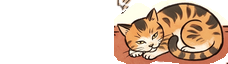
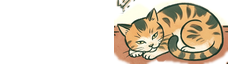
Polish Ming pose color and map title behavior

diff --git a/tests/engine.test.ts b/tests/engine.test.ts
@@ -1,5 +1,5 @@
 import { describe, expect, it } from 'vitest';
-import { exitEdge, parseMap } from '../src/engine/map.ts';
+import { exitCanBeUsed, exitEdge, parseMap } from '../src/engine/map.ts';
 import { facingOf, sideFacing, step, walkable, walkableFoot } from '../src/engine/walk.ts';
 import { addItem, readSave, writeSave } from '../src/engine/save.ts';
 import { createBattle, outcome, playRound } from '../src/engine/battle.ts';
@@ -38,7 +38,7 @@ describe('map properties', () => {
   it('defaults legacy maps to top-view campus settings', () => {
     const legacy = readFileSync(new URL('../content/maps/gate.tmj', import.meta.url), 'utf8');
     expect(parseMap(legacy)).toMatchObject({
-      art: null, view: 'top', script: 'hans', player: 'linxia', dialogue: 'box', intro: null, scaleFar: 1, scaleNear: 1, ground: 'stone',
+      art: null, view: 'top', script: 'hans', player: 'linxia', dialogue: 'box', intro: null, scaleFar: 1, scaleNear: 1, paintedTitle: false, ground: 'stone',
     });
   });
 
@@ -54,11 +54,12 @@ describe('map properties', () => {
         { name: 'intro', value: 'ming_intro' },
         { name: 'scaleFar', value: '0.8' },
         { name: 'scaleNear', value: '1.25' },
+        { name: 'paintedTitle', value: true },
         { name: 'ground', value: 'wood' },
       ],
     };
     expect(parseMap(fixture)).toMatchObject({
-      art: 'ming', view: 'side', script: 'hant', player: 'shen', dialogue: 'bubble', intro: 'ming_intro', scaleFar: 0.8, scaleNear: 1.25, ground: 'wood',
+      art: 'ming', view: 'side', script: 'hant', player: 'shen', dialogue: 'bubble', intro: 'ming_intro', scaleFar: 0.8, scaleNear: 1.25, paintedTitle: true, ground: 'wood',
     });
   });
 
@@ -93,6 +94,15 @@ describe('map properties', () => {
       }],
     };
     expect(parseMap(fixture).triggers[0]).toMatchObject({ knot: 'ming_monk_left', actor: 'monk_left' });
+  });
+});
+
+describe('exit facing', () => {
+  it('requires the declared facing and defaults missing faces to up', () => {
+    expect(exitCanBeUsed({ face: 'up' }, 'up')).toBe(true);
+    expect(exitCanBeUsed({ face: 'up' }, 'down')).toBe(false);
+    expect(exitCanBeUsed({ face: null }, 'up')).toBe(true);
+    expect(exitCanBeUsed({ face: null }, 'down')).toBe(false);
   });
 });
 

diff --git a/tests/story.test.ts b/tests/story.test.ts
@@ -57,17 +57,48 @@ describe('story', () => {
 
   it('rejects anchors inside exit rectangles on any map', () => {
     const map = content.maps.ming_scriptorium;
+    const canal = content.maps.ming_canal_street;
     const invalid = {
       ...content,
       maps: {
         ...content.maps,
         ming_scriptorium: {
           ...map,
-          anchors: { ...map.anchors, player_start: { x: 125, y: 350 } },
+          anchors: { ...map.anchors, from_street: { x: 125, y: 350 } },
+        },
+        ming_canal_street: {
+          ...canal,
+          exits: canal.exits.map((exit) => exit.id === 'to_scriptorium' ? { ...exit, face: 'left' as const } : exit),
         },
       },
     };
-    expect(checkExits(invalid)).toContain('map ming_scriptorium: anchor "player_start" is inside exit "to_street"');
+    expect(checkExits(invalid)).toContain('map ming_scriptorium: anchor "from_street" is inside exit "to_street"');
+
+    const wrongArrivalFace = {
+      ...invalid,
+      maps: {
+        ...invalid.maps,
+        ming_canal_street: {
+          ...invalid.maps.ming_canal_street,
+          exits: invalid.maps.ming_canal_street.exits.map((exit) =>
+            exit.id === 'to_scriptorium' ? { ...exit, face: 'down' as const } : exit),
+        },
+      },
+    };
+    expect(checkExits(wrongArrivalFace)).not.toContain('map ming_scriptorium: anchor "from_street" is inside exit "to_street"');
+
+    const noFace = {
+      ...wrongArrivalFace,
+      maps: {
+        ...wrongArrivalFace.maps,
+        ming_scriptorium: {
+          ...wrongArrivalFace.maps.ming_scriptorium,
+          exits: wrongArrivalFace.maps.ming_scriptorium.exits.map((exit) => exit.id === 'to_street' ? { ...exit, face: null } : exit),
+        },
+      },
+    };
+    expect(checkExits(noFace)).toContain('map ming_scriptorium: anchor "from_street" is inside exit "to_street"');
     expect(checkExits(content).filter((error) => error.includes('is inside exit'))).toEqual([]);
+    expect(content.maps.avenue.anchors.kiosk_front).toEqual({ x: 1570, y: 470 });
   });
 });

diff --git a/src/engine/map.ts b/src/engine/map.ts
@@ -21,7 +21,7 @@ export interface MapForeground { polygon: Polygon; baseline: number }
 
 /** Walking into the rect moves the player to `anchor` on `map`. */
 export interface MapExit {
-  id: string; x: number; y: number; width: number; height: number; map: string; anchor: string; face: Facing; sfx?: string;
+  id: string; x: number; y: number; width: number; height: number; map: string; anchor: string; face: Facing | null; sfx?: string;
 }
 
 export type ExitEdge = Facing;
@@ -32,6 +32,10 @@ export function exitEdge(exit: Pick<MapExit, 'x' | 'y' | 'width' | 'height' | 'f
   if (exit.y <= 0) return 'up';
   if (exit.y + exit.height >= mapH) return 'down';
   return exit.face ?? 'up';
+}
+
+export function exitCanBeUsed(exit: Pick<MapExit, 'face'>, facing: Facing): boolean {
+  return (exit.face ?? 'up') === facing;
 }
 
 export interface FieldMap {
@@ -48,6 +52,7 @@ export interface FieldMap {
   scaleFar: number;
   scaleNear: number;
   frameInset: number;
+  paintedTitle: boolean;
   ground: string;
   bgm: string | null;
   ambience: string | null;
@@ -88,6 +93,7 @@ export function parseMap(raw: string | TiledMap): FieldMap {
     scaleFar: Number(prop(map, 'scaleFar') ?? 1),
     scaleNear: Number(prop(map, 'scaleNear') ?? 1),
     frameInset: Number(prop(map, 'frameInset') ?? 0),
+    paintedTitle: String(prop(map, 'paintedTitle') ?? 'false') === 'true',
     ground: String(prop(map, 'ground') ?? 'stone'),
     bgm: (prop(map, 'bgm') as string) ?? null,
     ambience: (prop(map, 'ambience') as string) ?? null,
@@ -97,7 +103,7 @@ export function parseMap(raw: string | TiledMap): FieldMap {
       const [m, anchor] = String(prop(o, 'exit')).split(':');
       return {
         ...rect(o), map: m, anchor,
-        face: String(prop(o, 'face') ?? 'up') as Facing,
+        face: prop(o, 'face') == null ? null : String(prop(o, 'face')) as Facing,
         sfx: (prop(o, 'sfx') as string) ?? undefined,
       };
     }),

diff --git a/src/game/scenes/Field.ts b/src/game/scenes/Field.ts
@@ -8,7 +8,7 @@ import { ChoiceMenu } from '../ui/ChoiceMenu.ts';
 import { SpeechBubble } from '../ui/SpeechBubble.ts';
 import type { BattleData } from './Battle.ts';
 import { speakerResolver } from '../../engine/content.ts';
-import { exitEdge, inRect, type MapExit, type MapTrigger } from '../../engine/map.ts';
+import { exitCanBeUsed, exitEdge, inRect, type MapExit, type MapTrigger } from '../../engine/map.ts';
 import { addItem, readSave, writeSave, type ActorState } from '../../engine/save.ts';
 import { DIRS, type Dir } from '../../story/commands.ts';
 import type { CommandEvent, LineEvent } from '../../story/parse.ts';
@@ -159,7 +159,7 @@ export class FieldScene extends Phaser.Scene implements StoryHost {
       this.player.face = this.map.view === 'side' ? sideFacing(dx, this.player.face) : facingOf(dx, dy, this.player.face);
       this.player.setPos(step(this.player.pos, { x: (dx / len) * d, y: (dy / len) * d }, this.map.walkable, this.map.blocked));
       this.player.setMoving(true, this.currentSpeed / 190);
-      const exit = this.map.exits.find((e) => inRect(this.player.pos, e));
+      const exit = this.map.exits.find((e) => exitCanBeUsed(e, this.player.face) && inRect(this.player.pos, e));
       if (exit) {
         this.updateHint(null);
         return void this.travel(exit);
@@ -644,6 +644,7 @@ export class FieldScene extends Phaser.Scene implements StoryHost {
     if (m.bgm) this.loop('bgm', m.bgm, 1.5);
     if (m.ambience) this.loop('ambience', m.ambience, 1.5);
     this.areaLabel.setText(m.title);
+    this.areaLabel.setVisible(!m.paintedTitle);
   }
 
   private setPaperTheme(paper: boolean) {

diff --git a/tools/lib/content.ts b/tools/lib/content.ts
@@ -109,7 +109,11 @@ export function checkExits(c: Content): string[] {
       else if (!to.anchors[e.anchor]) errs.push(`map ${id}: exit "${e.id}" goes to unknown anchor "${e.map}:${e.anchor}"`);
       if (e.sfx && !(c.audioIds?.has(e.sfx) ?? !!c.audio.sfx?.[e.sfx])) errs.push(`map ${id}: exit "${e.id}" has unknown sfx "${e.sfx}"`);
       for (const [name, anchor] of Object.entries(m.anchors)) {
-        if (inRect(anchor, e)) errs.push(`map ${id}: anchor "${name}" is inside exit "${e.id}"`);
+        const arrivalFaces = Object.values(c.maps).flatMap((source) =>
+          source.exits.filter((incoming) => incoming.map === id && incoming.anchor === name).map((incoming) => incoming.face));
+        if (inRect(anchor, e) && (e.face === null || arrivalFaces.includes(e.face))) {
+          errs.push(`map ${id}: anchor "${name}" is inside exit "${e.id}"`);
+        }
       }
     }
     if (m.background && !c.artByDir[m.art ?? 'retro']?.has(m.background)) errs.push(`map ${id}: background "${m.background}" has no art file in art/${m.art ?? 'retro'}`);

diff --git a/tools/lib/approvals.ts b/tools/lib/approvals.ts
@@ -57,12 +57,13 @@ function mapSceneData(map: FieldMap) {
     foreground: map.foreground,
     anchors: map.anchors,
     actors: map.actors,
-    exits: map.exits,
+    exits: map.exits.map((exit) => ({ ...exit, face: exit.face ?? 'up' })),
     art: map.art,
     view: map.view,
     scaleFar: map.scaleFar,
     scaleNear: map.scaleNear,
     frameInset: map.frameInset,
+    ...(map.paintedTitle ? { paintedTitle: true } : {}),
     script: map.script,
     player: map.player,
     dialogue: map.dialogue,

diff --git a/tools/art/scene-cut.py b/tools/art/scene-cut.py
@@ -6,7 +6,7 @@ from __future__ import annotations
 import json
 from pathlib import Path
 
-from PIL import Image, ImageChops, ImageDraw, ImageFilter
+from PIL import Image, ImageChops, ImageDraw, ImageFilter, ImageStat
 
 ROOT = Path(__file__).resolve().parents[2]
 SPEC_PATH = ROOT / "assets/scenes/ming_scriptorium.yaml"
@@ -16,6 +16,36 @@ SIDECAR = ROOT / "assets/scenes/ming_scriptorium.art.json"
 
 def box_crop(image: Image.Image, box: list[int]) -> Image.Image:
     return image.crop(tuple(box))
+
+
+def changed_mask(edit: Image.Image, reference: Image.Image) -> Image.Image:
+    mask = ImageChops.difference(edit, reference).convert("L")
+    return mask.point(lambda value: 255 if value > 30 else 0).filter(ImageFilter.MedianFilter(5)).filter(ImageFilter.MaxFilter(5))
+
+
+def match_color(
+    edit: Image.Image,
+    edit_roi: Image.Image,
+    plate_roi: Image.Image,
+    changed: Image.Image,
+    silhouette: Image.Image | None,
+) -> Image.Image:
+    union = ImageChops.lighter(changed, silhouette) if silhouette else changed
+    outside = ImageChops.invert(union)
+    source_stats = ImageStat.Stat(edit_roi, mask=outside)
+    target_stats = ImageStat.Stat(plate_roi, mask=outside)
+    channels = edit.split()
+    matched = []
+    for channel, source_mean, source_std, target_mean, target_std in zip(
+        channels, source_stats.mean, source_stats.stddev, target_stats.mean, target_stats.stddev
+    ):
+        scale = target_std / source_std if source_std > 1e-6 else 1
+        lut = [
+            max(0, min(255, round((value - source_mean) * scale + target_mean)))
+            for value in range(256)
+        ]
+        matched.append(channel.point(lut))
+    return Image.merge("RGB", matched)
 
 
 def build_plate(spec: dict) -> Image.Image:
@@ -44,8 +74,19 @@ def build_pose(spec: dict, plate: Image.Image, key: str, data: dict, scale: floa
     local_box = [roi[0] - crop_x, roi[1] - crop_y, roi[2] - crop_x, roi[3] - crop_y]
     edited_roi = box_crop(edit, local_box)
     plate_source = box_crop(plate, roi)
-    mask = ImageChops.difference(edited_roi, plate_source).convert("L").point(lambda p: 255 if p > 30 else 0)
-    mask = mask.filter(ImageFilter.MedianFilter(5)).filter(ImageFilter.MaxFilter(5)).filter(ImageFilter.GaussianBlur(1.5))
+    initial_mask = changed_mask(edited_roi, plate_source)
+    silhouette_points = data.get("foreground_silhouette_art")
+    silhouette_source = None
+    if silhouette_points:
+        silhouette_source = Image.new("L", plate_source.size, 0)
+        source_points = [(round(px / scale - roi[0]), round(py / scale - roi[1])) for px, py in silhouette_points]
+        ImageDraw.Draw(silhouette_source).polygon(source_points, fill=255)
+        dilation_art = int(data.get("silhouette_dilate_art", 3))
+        dilation_source = max(1, round(dilation_art / scale))
+        silhouette_source = silhouette_source.filter(ImageFilter.MaxFilter(dilation_source * 2 + 1))
+    edit = match_color(edit, edited_roi, plate_source, initial_mask, silhouette_source)
+    edited_roi = box_crop(edit, local_box)
+    mask = changed_mask(edited_roi, plate_source).filter(ImageFilter.GaussianBlur(1.5))
 
     x = round(roi[0] * scale)
     y = round(roi[1] * scale)
@@ -57,7 +98,6 @@ def build_pose(spec: dict, plate: Image.Image, key: str, data: dict, scale: floa
     changed_pixels = alpha.point(lambda value: 255 if value >= 128 else 0).histogram()[255]
     if changed_pixels < spec["pose_min_changed_pixels"]:
         raise ValueError(f"{key} pose has only {changed_pixels} changed opaque pixels")
-    silhouette_points = data.get("foreground_silhouette_art")
     if silhouette_points:
         silhouette = Image.new("L", frame_size, 0)
         origin_x, origin_y = x, y
@@ -65,6 +105,9 @@ def build_pose(spec: dict, plate: Image.Image, key: str, data: dict, scale: floa
         ImageDraw.Draw(silhouette).polygon(local_points, fill=255)
         dilation = int(data.get("silhouette_dilate_art", 3))
         silhouette = silhouette.filter(ImageFilter.MaxFilter(dilation * 2 + 1))
+        feather = float(data.get("silhouette_feather_art", 0))
+        if feather:
+            silhouette = silhouette.filter(ImageFilter.GaussianBlur(feather))
         alpha = ImageChops.lighter(alpha, silhouette)
     frame0 = Image.new("RGBA", frame_size, (0, 0, 0, 0))
     frame1 = edit_art.convert("RGBA")

diff --git a/tools/maps/build-campus.py b/tools/maps/build-campus.py
@@ -45,7 +45,7 @@ maps = {
     "avenue": tmj("江城大学 · 梧桐苑", "bg_avenue",
         [BOX(0, 448, 1920, 890), BOX(430, 426, 600, 448), BOX(1036, 426, 1280, 448), BOX(1740, 426, 1840, 448)],
         [BOX(630, 426, 920, 446), BOX(1810, 470, 1840, 500), BOX(70, 830, 100, 860)],
-        {"from_gate": (120, 640), "from_library": (1820, 640), "dorm_door": (515, 436), "kiosk_front": (1570, 480)}, [],
+        {"from_gate": (120, 640), "from_library": (1820, 640), "dorm_door": (515, 436), "kiosk_front": (1570, 470)}, [],
         [rect("dorm_door", 430, 396, 170, 30, {"knot": "dorm_door", "face": "up", "icon": "door"}), rect("notice_board", 1036, 396, 244, 30, {"knot": "notice_board", "face": "up"}),
          rect("to_kiosk", 1420, 448, 300, 30, {"exit": "avenue_kiosk:from_avenue", "face": "up", "sfx": "door_chime"}),
          rect("bike_bell", 640, 426, 270, 30, {"knot": "bike_bell", "face": "up", "hidden": "true", "icon": "use"}), rect("avenue_kiosk_paw", 1740, 396, 100, 30, {"knot": "avenue_kiosk_paw", **H}),

diff --git a/tools/maps/build-ming.py b/tools/maps/build-ming.py
@@ -48,7 +48,7 @@ maps = {
          rect("ming_bridge", 500, 380, 230, 25, {"knot": "ming_bridge", "face": "up"}),
          rect("to_scriptorium", 1040, 395, 125, 35, {"exit": "ming_scriptorium:from_street"})],
         [amb("leaves", 330, 40, 280, 300, every=1400), amb("motes", 0, 0, 1260, 380)],
-        intro="ming_intro", ground="stone"),
+        intro="ming_intro", ground="stone", paintedTitle="true"),
     "ming_scriptorium": tmj(960, "經藏院 · 寫經房", "bg_scriptorium",
         [BOX(110, 304, 140, 395), BOX(110, 323, 850, 342), BOX(110, 333, 850, 458)],
         [BOX(144, 341, 398, 458), BOX(850, 300, 960, 458)],
